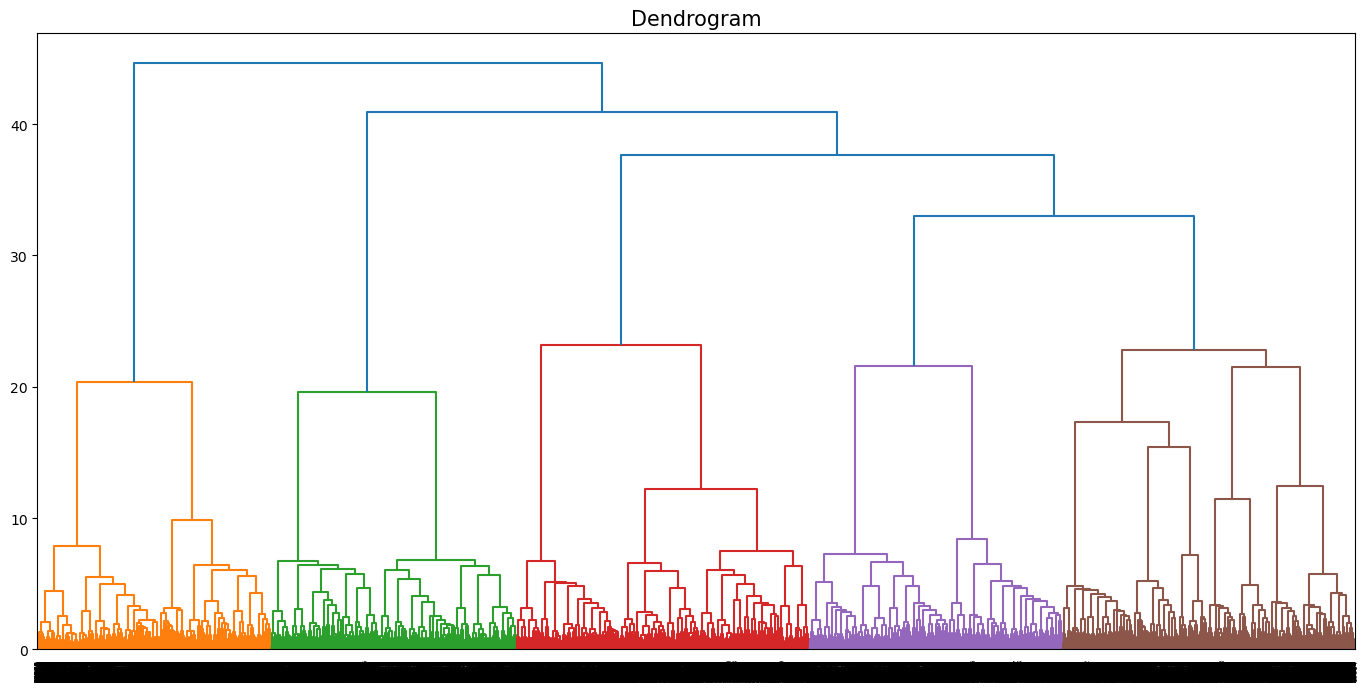
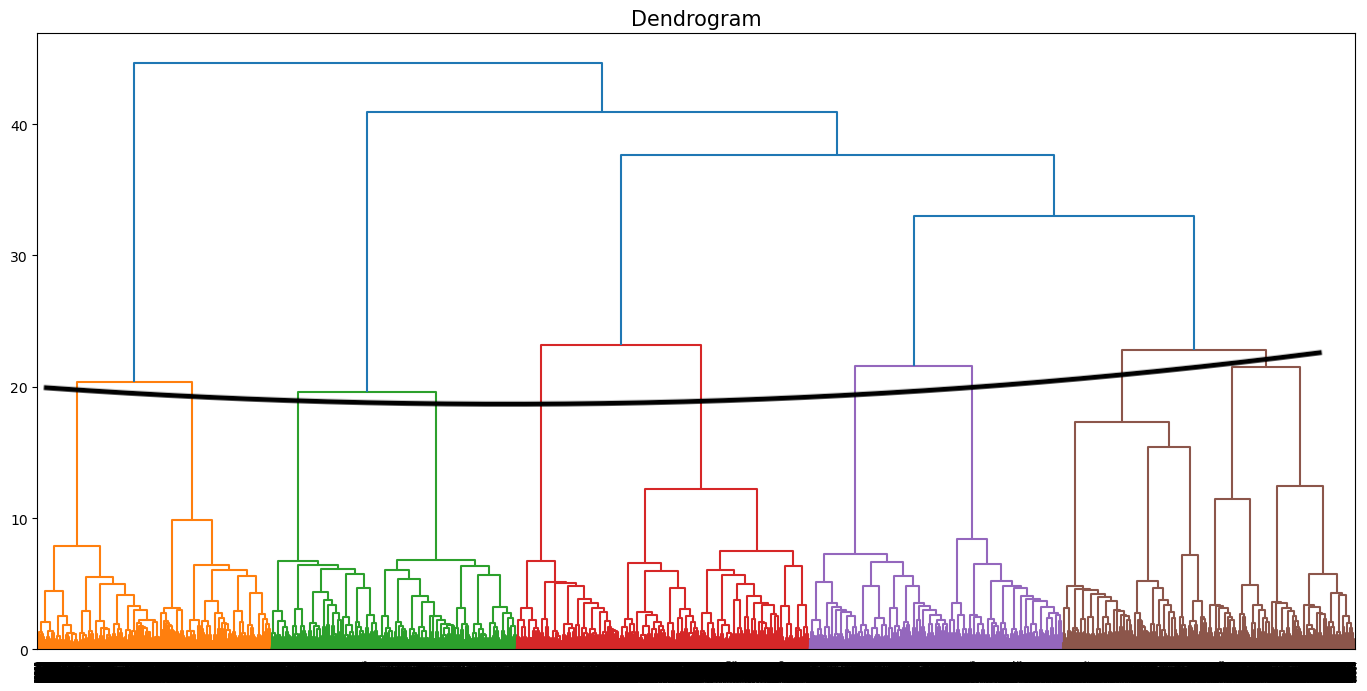
FINISHED

Changed region(s): [[0.0307, 0.547, 0.7988, 0.6078], [0.7988, 0.4863, 0.9832, 0.547]]

diff --git a/README.md b/README.md
@@ -4,13 +4,15 @@ This dataset contains a mix of lyrical and continuous variables pulled from a 20
 
 I apply unsupervised clustering algorithms to identify groupings within this the data from the songs. The goal is to create clusters that can accurately associate one song to another. This can be used to create music recomendations, or help find exactly the type of song you need for whatever mood you are in.
 
-I apply two models, a K-means clustering model and a heirarchal clustering model. 
+I apply two models, a K-means clustering model and a heirarchal clustering model:
 
+The Kmeans model calculated the optimal number of clusters to be 6. This extremely general model led to most of our test data being classified into a single cluster.
 
-
-
-
-
+The heirarchal clustering model performed much better, breaking down into 10 clusters shown at the  hypothetical cut below:
 
 ![alt text](Dendrogram.png)
+
+When applyed to the test data, it created an interesting mix among the values. The model classifyed Eso Beso(That Kiss) as a Love song while applying the label of a sad song to Your Cheating Heart. Picking up this kind of nuance is awesome, as I assume the second song has a lot of romantic themes as well. The other labels look to be properly applied as well.
+
+The model is not perfect but I believe it can be an effective tool to help find a song for the mood you are in.
 
